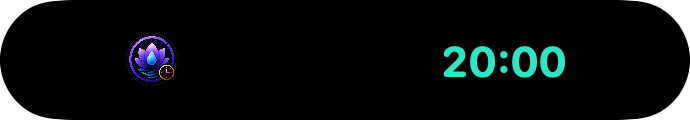
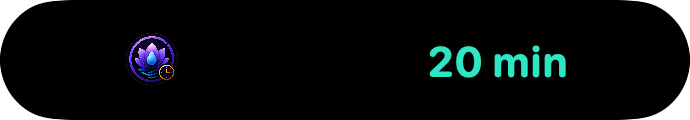
Polish Commander web visual consistency

Changed region(s): [[0.6087, 0.375, 0.8217, 0.65]]

diff --git a/docs/bohanes-technologies/web/site/index.html b/docs/bohanes-technologies/web/site/index.html
@@ -2263,6 +2263,9 @@ footer .footer-brand-message{
 }
 
 /* Minimal Commander platform split + HQ/contact placeholders, 2026-11-11. */
+.header-login,header .desktop-contact{height:46px!important;min-height:46px!important;padding:0 13px!important;border-radius:12px!important;font-size:14px!important;line-height:1!important;font-weight:700!important;white-space:nowrap!important}
+header .desktop-contact{display:inline-flex!important;align-items:center!important;justify-content:center!important}
+
 @media(min-width:1280px){header .wrap.nav{grid-template-columns:126px minmax(0,1fr) auto auto!important;column-gap:14px!important}}
 @media(min-width:1100px) and (max-width:1279px){header .wrap.nav{grid-template-columns:108px minmax(0,1fr) auto auto!important;column-gap:10px!important}}
 .product-nav-menu{position:relative;flex:0 0 auto}
@@ -2286,6 +2289,84 @@ footer .footer-brand-message{
 @media(max-width:1339px){.product-nav-menu{display:block}.product-nav-menu summary{font-size:18px;padding:12px}.product-platform-menu{position:static;transform:none;width:100%;box-shadow:none;border:0;border-top:1px solid var(--line);border-radius:0;padding:6px 12px 10px;background:#F7FAFC}.mobile-login-link{display:block;width:100%;padding:12px;border:0;border-radius:8px;background:#F3F7FA;color:var(--navy);font-size:18px;font-weight:700;text-align:left}.header-login{display:none}}
 @media(max-width:760px){.platform-dialog,.login-dialog{width:calc(100vw - 32px);max-width:calc(100vw - 32px);margin:auto;overflow:hidden}.dialog-head{padding:16px;gap:10px}.dialog-head>div{min-width:0}.dialog-head h3{font-size:24px;line-height:1.15}.dialog-close{flex:0 0 auto;padding:7px 9px}.mobile-bottom-nav{grid-template-columns:repeat(4,minmax(0,1fr))}.mobile-bottom-nav .mobile-bottom-button{min-width:0;width:auto;max-width:none;color:#EAF4FA;font-size:9px;font-weight:700;line-height:1;text-align:center;border-radius:11px;margin:5px 0;overflow:hidden}.commander-platform-switch{margin-top:10px}.social-placeholders{display:grid;grid-template-columns:1fr 1fr}.social-placeholder{min-width:0}.alarm-time-card{min-height:340px}.platform-dialog-grid{grid-template-columns:1fr}}
 @media(max-width:420px){.social-placeholders{grid-template-columns:1fr}}
+
+/* Commander-native visual language: same dark surfaces as the actual app. */
+#commander .screens-content-panel{
+  background:linear-gradient(145deg,#173866 0%,#10264D 58%,#0E1838 100%)!important;
+  border-color:#3E6594!important;
+}
+#commander .screens-content-panel .group-panel-title h3,
+#commander .screens-content-panel .procedures-heading h3{color:#F4F7FF!important}
+#commander .screens-content-panel .procedures-heading p{color:#C7D6EE!important}
+#commander .screens-content-panel .screen-card{
+  background:linear-gradient(155deg,#162D57 0%,#101E40 100%)!important;
+  border-color:#365C8A!important;
+  box-shadow:inset 0 1px 0 #FFFFFF0A,0 8px 24px #06102622!important;
+}
+#commander .screens-content-panel .screen-card h3{color:#FFFFFF!important}
+#commander .screens-content-panel .screen-card p{color:#C9D8ED!important}
+#commander .screens-content-panel .screen-visual{padding:8px;border-radius:15px;background:#0B1430;border:1px solid #294D7C}
+#commander .screens-content-panel .procedures-block{
+  background:linear-gradient(155deg,#132A54,#0D1D3E)!important;
+  border-color:#365C8A!important;
+}
+#commander .procedure-group-panel{background:#0A1733CC!important;border-color:#355F90!important}
+#commander .procedure-group-panel .proc{
+  background:linear-gradient(145deg,#142D58,#0E2043)!important;
+  border-color:#365E8D!important;
+  box-shadow:inset 0 1px 0 #FFFFFF08;
+}
+
+/* How it works uses the same Commander surface family instead of generic blue tiles. */
+.features-area .how-tile{background:linear-gradient(145deg,#E8EEF8,#DDE7F4)!important}
+.how-tile .flow-step,
+.how-tile .flow-step:nth-child(n){
+  background:linear-gradient(155deg,#152F5B 0%,#101F43 100%)!important;
+  border-color:#3A6494!important;
+  box-shadow:inset 0 1px 0 #FFFFFF0A,0 8px 22px #06102622!important;
+}
+.how-tile .flow-emblem{background:#0C1A39!important;border-color:#3D6B9E!important}
+.how-tile .flow-step h3{color:#FFFFFF!important}
+.how-tile .flow-step p{color:#CBD9EE!important}
+.how-tile .flow-step:not(:last-child):after{color:#46D8F4!important}
+
+/* Future cards: treat every preview as a Commander surface, not a loose image. */
+.future-card{background:linear-gradient(155deg,#142D58 0%,#0E1E40 100%)!important;border-color:#376393!important}
+.future-card .future-visual{min-height:300px;padding:22px;border:1px solid #2E5686;border-radius:18px;background:#08142F;margin-bottom:20px}
+.future-card .future-visual>.image-button,
+.future-card .future-widget-pair{filter:drop-shadow(0 10px 22px #02071466)}
+.future-card .status{background:#223A6B!important}
+.future-card .status.ready{background:#183F4A!important}
+
+/* Hero calendar hierarchy: 2 primary calendars + compact export row below. */
+.hero-calendars{grid-template-columns:1fr 1fr!important}
+.hero-calendar.google-calendar .hero-calendar-icon,.hero-calendar-icon.google-calendar{background:#fff;border:1px solid #D7E1EA;border-radius:10px;padding:4px}
+.hero-calendar-ics{grid-column:1/-1!important;min-height:68px!important;grid-template-columns:36px 1fr!important;grid-template-rows:auto auto!important;padding:10px 14px!important}
+.hero-calendar-ics .hero-calendar-icon{grid-row:1/3}
+.calendar-ics-strip{display:flex;align-items:center;gap:16px;margin-top:20px;padding:18px 20px;border:1px solid #5879A3;border-radius:16px;background:#0E153080;color:#fff}
+.calendar-ics-strip .calendar-ics-icon{display:grid;place-items:center;flex:0 0 44px;width:44px;height:44px;border-radius:12px;background:#1E447E;border:1px solid #5D78A7}
+.calendar-ics-strip .native-symbol{width:32px;height:32px}
+.calendar-ics-strip b{display:block;font-size:19px;line-height:1.3}
+.calendar-ics-strip span{display:block;color:#D5E1F5;font-size:16px;line-height:1.45;margin-top:3px}
+
+/* Social channels align exactly with the e-mail and phone cards. */
+.social-placeholders{display:grid!important;grid-template-columns:1fr!important;gap:12px!important;margin-top:16px!important;width:100%!important}
+.social-placeholder{width:100%!important;min-width:0!important;min-height:82px!important;grid-template-columns:36px 1fr auto!important;grid-template-rows:auto auto!important;column-gap:13px!important;padding:15px 18px!important;border:1px solid #CAD8E2!important;border-radius:16px!important;background:#F3F7FA!important}
+.social-placeholder svg{grid-row:1/3!important;width:30px!important;height:30px!important}
+.social-placeholder span{font-size:17px!important}
+.social-placeholder small{font-size:13px!important;grid-column:3;grid-row:1/3;align-self:center;padding-left:8px}
+
+/* A little more text balance in About without changing its copy. */
+#o-nas .about-copy{padding-right:12px}
+
+@media(max-width:760px){
+  .hero-calendar-ics{min-height:82px!important;display:grid!important;grid-template-columns:36px 1fr!important;grid-template-rows:auto auto!important}
+  .hero-calendar-ics .hero-calendar-icon{grid-row:1/3!important}
+  .calendar-ics-strip{align-items:flex-start;padding:16px}
+  .social-placeholder{grid-template-columns:32px 1fr!important;min-height:76px!important}
+  .social-placeholder small{grid-column:2!important;grid-row:2!important;padding-left:0!important}
+  .future-card .future-visual{min-height:245px;padding:16px}
+}
 </style></head>
 <body>
 <a class="skip-link" href="#main">Přeskočit na obsah</a>
@@ -2310,9 +2391,13 @@ footer .footer-brand-message{
 </nav>
 
 <main id="main">
-<section class="hero" id="domu"><div class="wrap hero-grid"><div class="hero-copy"><img class="product-wordmark" src="/native-ui/commander-wordmark.png" alt="Lázeňský Commander – původní logo a logotyp"><h1>Lázeňský pobyt přehledně v telefonu.</h1><p class="lead">Víte, co vás čeká, kam máte jít a kdy vyrazit. Commander promění léčebný rozpis v přehledný program vašeho pobytu.</p><div class="hero-actions"><a class="cta" href="#commander">Prohlédnout aplikaci</a><a class="cta secondary" href="#pro-lazne">Domluvit pilot</a></div><div class="platforms"><a class="platform" href="#commander"><span class="platform-icon"><svg viewBox="0 0 24 28" aria-hidden="true"><path d="M19.7 14.5c0-3 2.5-4.4 2.6-4.5-1.4-2.1-3.6-2.4-4.4-2.4-1.9-.2-3.7 1.1-4.7 1.1-1 0-2.5-1.1-4.1-1.1-2.1 0-4.1 1.3-5.2 3.2-2.2 3.9-.6 9.6 1.6 12.7 1.1 1.5 2.3 3.1 3.9 3 1.6-.1 2.2-1 4.1-1s2.4 1 4.1 1c1.7 0 2.8-1.5 3.8-3 1.3-1.8 1.8-3.6 1.8-3.7-.1 0-3.5-1.4-3.5-5.3zM16.6 5.5c.9-1.1 1.5-2.7 1.3-4.2-1.3.1-2.9.9-3.9 2-.8.9-1.6 2.5-1.4 4 1.5.1 3-.8 4-1.8z"/></svg></span><span><b>iPhone</b><small>iOS 16.1+</small></span></a><button class="platform platform-button" type="button" data-platform-open><span class="android-mark"><svg viewBox="0 0 36 28" aria-hidden="true"><path d="M8 7 4 1M28 7l4-6" stroke="#23864A" stroke-width="2" stroke-linecap="round"/><path d="M1 26a17 20 0 0 1 34 0Z" fill="#3DDC84"/><circle cx="10" cy="17" r="1.8" fill="#183B2A"/><circle cx="26" cy="17" r="1.8" fill="#183B2A"/></svg></span><span><b>Android</b><small>Připravujeme</small></span></button></div><div class="hero-calendars" aria-label="Kalendářová propojení"><a class="hero-calendar" href="#kalendar"><span class="hero-calendar-icon apple-calendar"><img src="/native-ui/symbol-calendar.png" alt=""></span><b>Apple Kalendář</b><small>Volitelná synchronizace</small></a><a class="hero-calendar" href="#kalendar"><span class="hero-calendar-icon"><img src="/native-ui/symbol-document.png" alt=""></span><b>Export .ics</b><small>Dostupný v Pokročilé</small></a></div></div><div class="hero-stage"><div class="hero-phone-wrap"><button class="image-button hero-phone-button" type="button" data-enlarge aria-label="Zvětšit: Skutečná obrazovka Dnes v Commanderu"><img src="/screens/commander-today.png" alt="Skutečná obrazovka Dnes v Commanderu"></button></div><div class="hero-side"><div class="hero-widget"><div class="visual-label">Commander na ploše iPhonu</div><button class="image-button hero-widget-button" type="button" data-enlarge aria-label="Zvětšit: Podlouhlý widget Commanderu – čistý nativní náhled"><img src="/native-ui/widget-medium.png" alt="Podlouhlý widget Commanderu – čistý nativní náhled"></button></div><div class="hero-procedure-pack" aria-label="Pět kategorií procedur"><div class="hero-proc"><img src="/procedure-icons/rehab.png" alt=""><span>Rehabilitace a pohyb</span></div><div class="hero-proc"><img src="/procedure-icons/electro.png" alt=""><span>Elektroléčba</span></div><div class="hero-proc"><img src="/procedure-icons/bath.png" alt=""><span>Vodoléčba</span></div><div class="hero-proc"><img src="/procedure-icons/massage.png" alt=""><span>Masáže</span></div><div class="hero-proc"><img src="/procedure-icons/wrap.png" alt=""><span>Teplo a zábaly</span></div></div></div></div></div></section>
+<section class="hero" id="domu"><div class="wrap hero-grid"><div class="hero-copy"><img class="product-wordmark" src="/native-ui/commander-wordmark.png" alt="Lázeňský Commander – původní logo a logotyp"><h1>Lázeňský pobyt přehledně v telefonu.</h1><p class="lead">Víte, co vás čeká, kam máte jít a kdy vyrazit. Commander promění léčebný rozpis v přehledný program vašeho pobytu.</p><div class="hero-actions"><a class="cta" href="#commander">Prohlédnout aplikaci</a><a class="cta secondary" href="#pro-lazne">Domluvit pilot</a></div><div class="platforms"><a class="platform" href="#commander"><span class="platform-icon"><svg viewBox="0 0 24 28" aria-hidden="true"><path d="M19.7 14.5c0-3 2.5-4.4 2.6-4.5-1.4-2.1-3.6-2.4-4.4-2.4-1.9-.2-3.7 1.1-4.7 1.1-1 0-2.5-1.1-4.1-1.1-2.1 0-4.1 1.3-5.2 3.2-2.2 3.9-.6 9.6 1.6 12.7 1.1 1.5 2.3 3.1 3.9 3 1.6-.1 2.2-1 4.1-1s2.4 1 4.1 1c1.7 0 2.8-1.5 3.8-3 1.3-1.8 1.8-3.6 1.8-3.7-.1 0-3.5-1.4-3.5-5.3zM16.6 5.5c.9-1.1 1.5-2.7 1.3-4.2-1.3.1-2.9.9-3.9 2-.8.9-1.6 2.5-1.4 4 1.5.1 3-.8 4-1.8z"/></svg></span><span><b>iPhone</b><small>iOS 16.1+</small></span></a><button class="platform platform-button" type="button" data-platform-open><span class="android-mark"><svg viewBox="0 0 36 28" aria-hidden="true"><path d="M8 7 4 1M28 7l4-6" stroke="#23864A" stroke-width="2" stroke-linecap="round"/><path d="M1 26a17 20 0 0 1 34 0Z" fill="#3DDC84"/><circle cx="10" cy="17" r="1.8" fill="#183B2A"/><circle cx="26" cy="17" r="1.8" fill="#183B2A"/></svg></span><span><b>Android</b><small>Připravujeme</small></span></button></div><div class="hero-calendars" aria-label="Kalendářová propojení">
+<a class="hero-calendar" href="#kalendar"><span class="hero-calendar-icon apple-calendar"><img src="/native-ui/symbol-calendar.png" alt=""></span><b>Apple Kalendář</b><small>Volitelná synchronizace</small></a>
+<a class="hero-calendar" href="#kalendar"><span class="hero-calendar-icon google-calendar"><img src="/native-ui/google-calendar.png" alt=""></span><b>Google Kalendář</b><small>Import přes .ics</small></a>
+<a class="hero-calendar hero-calendar-ics" href="#kalendar"><span class="hero-calendar-icon"><img src="/native-ui/symbol-document.png" alt=""></span><b>Export .ics</b><small>Pro Google i další kalendáře</small></a>
+</div></div><div class="hero-stage"><div class="hero-phone-wrap"><button class="image-button hero-phone-button" type="button" data-enlarge aria-label="Zvětšit: Skutečná obrazovka Dnes v Commanderu"><img src="/screens/commander-today.png" alt="Skutečná obrazovka Dnes v Commanderu"></button></div><div class="hero-side"><div class="hero-widget"><div class="visual-label">Commander na ploše iPhonu</div><button class="image-button hero-widget-button" type="button" data-enlarge aria-label="Zvětšit: Podlouhlý widget Commanderu – čistý nativní náhled"><img src="/native-ui/widget-medium.png" alt="Podlouhlý widget Commanderu – čistý nativní náhled"></button></div><div class="hero-procedure-pack" aria-label="Pět kategorií procedur"><div class="hero-proc"><img src="/procedure-icons/rehab.png" alt=""><span>Rehabilitace a pohyb</span></div><div class="hero-proc"><img src="/procedure-icons/electro.png" alt=""><span>Elektroléčba</span></div><div class="hero-proc"><img src="/procedure-icons/bath.png" alt=""><span>Vodoléčba</span></div><div class="hero-proc"><img src="/procedure-icons/massage.png" alt=""><span>Masáže</span></div><div class="hero-proc"><img src="/procedure-icons/wrap.png" alt=""><span>Teplo a zábaly</span></div></div></div></div></div></section>
 
-<section id="o-nas"><div class="wrap section-tile about-tile"><div class="pad"><div class="about-grid"><div class="about-copy"><div class="kicker">O nás</div><h2>Proč vznikl Lázeňský Commander?</h2><p class="lead">Léčebný průkaz obsahuje všechno. Jen v něm musíte pokaždé znovu hledat.</p><p>Časy, názvy procedur, patra a místnosti. Během pobytu potřebujete hlavně vědět, co je právě teď, co přijde potom a kdy už máte vyrazit.</p><p>Commander vznikl ze skutečné zkušenosti z lázní. Papírovému rozpisu dává přehlednou podobu v telefonu a pomáhá hlídat čas odchodu.</p></div><div class="story-visual"><div class="story-brand"><img class="product-mark" src="/native-ui/commander-mark.png" alt="Logo Lázeňského Commanderu"><div><b>Lázeňský Commander</b><span>Z rozpisu do přehledného dne.</span></div></div><div class="story-document"><div class="story-document-title"><img class="native-symbol" src="/native-ui/symbol-document.png" alt=""><span>Léčebný rozpis</span></div><div class="story-line"><time>09:15</time><span>LTV<br><small>Tělocvična</small></span></div><div class="story-line"><time>10:15</time><span>Ultrazvuk<br><small>Elektroléčba</small></span></div></div><div class="story-arrow" aria-hidden="true">↓</div><div class="story-answer"><img src="/procedure-icons/rehab.png" alt=""><div><span class="eyebrow">Co je teď · co bude dál</span><b>Čas, procedura a místo</b><span>V jednom denním přehledu.</span></div><img class="native-symbol" src="/native-ui/symbol-clock.png" alt=""></div><p class="visual-note">Stejný demonstrační rozpis používají i ostatní ukázky na stránce.</p></div></div></div></div></section>
+<section id="o-nas"><div class="wrap section-tile about-tile"><div class="pad"><div class="about-grid"><div class="about-copy"><div class="kicker">O nás</div><h2>Proč vznikl Lázeňský Commander?</h2><p class="lead">Léčebný průkaz obsahuje všechno. Jen v něm musíte pokaždé znovu hledat.</p><p>Lázeňský Commander vznikl z jednoduché potřeby: podívat se na telefon a hned vědět, co mě čeká, kde to je a kdy mám vyrazit.</p><p>Časy, názvy procedur, patra a místnosti. Během pobytu potřebujete hlavně vědět, co je právě teď, co přijde potom a kdy už máte vyrazit.</p><p>Commander vznikl ze skutečné zkušenosti z lázní. Papírovému rozpisu dává přehlednou podobu v telefonu a pomáhá hlídat čas odchodu.</p></div><div class="story-visual"><div class="story-brand"><img class="product-mark" src="/native-ui/commander-mark.png" alt="Logo Lázeňského Commanderu"><div><b>Lázeňský Commander</b><span>Z rozpisu do přehledného dne.</span></div></div><div class="story-document"><div class="story-document-title"><img class="native-symbol" src="/native-ui/symbol-document.png" alt=""><span>Léčebný rozpis</span></div><div class="story-line"><time>09:15</time><span>LTV<br><small>Tělocvična</small></span></div><div class="story-line"><time>10:15</time><span>Ultrazvuk<br><small>Elektroléčba</small></span></div></div><div class="story-arrow" aria-hidden="true">↓</div><div class="story-answer"><img src="/procedure-icons/rehab.png" alt=""><div><span class="eyebrow">Co je teď · co bude dál</span><b>Čas, procedura a místo</b><span>V jednom denním přehledu.</span></div><img class="native-symbol" src="/native-ui/symbol-clock.png" alt=""></div><p class="visual-note">Ukázka údajů z demonstračního rozpisu Commanderu.</p></div></div></div></div></section>
 
 <section id="commander"><div class="wrap section-tile screens-tile"><div class="pad"><div class="section-heading"><div><div class="kicker">Lázeňský Commander</div><div class="commander-platform-switch"><a class="is-active" href="#commander">Apple</a><button type="button" data-platform-open>Android</button></div><h2>Užitečné obrazovky.</h2></div><p class="lead">Denní program, celý týden i nastavení předstihu. Skutečné obrazovky aplikace si můžete otevřít v čitelném detailu.</p></div><div class="subsection-panel screens-content-panel"><div class="group-panel-title"><h3>Přehled obrazovek</h3></div><div class="screen-grid"><article class="screen-card"><div class="screen-visual"><button class="image-button" type="button" data-enlarge aria-label="Zvětšit obrazovku"><img src="/screens/commander-today.png" alt="Dnes"></button></div><h3>Dnes</h3><p>Co vás čeká právě dnes, nejbližší procedura a kdy máte vyrazit.</p></article><article class="screen-card"><div class="screen-visual"><button class="image-button" type="button" data-enlarge aria-label="Zvětšit obrazovku"><img src="/screens/commander-week.png" alt="Týden"></button></div><h3>Týden</h3><p>Celý týdenní rozpis po jednotlivých dnech a počet procedur.</p></article><article class="screen-card"><div class="screen-visual"><button class="image-button" type="button" data-enlarge aria-label="Zvětšit obrazovku"><img src="/screens/commander-stay.png" alt="Pobyt"></button></div><h3>Pobyt</h3><p>Souhrn pobytu, průběh, počet procedur a přehled terapií.</p></article><article class="screen-card"><div class="screen-visual"><button class="image-button" type="button" data-enlarge aria-label="Zvětšit obrazovku"><img src="/screens/commander-info.png" alt="Info"></button></div><h3>Info</h3><p>Důležité údaje o pobytu, lázních a klientovi na jednom místě.</p></article><article class="screen-card"><div class="screen-visual"><button class="image-button" type="button" data-enlarge aria-label="Zvětšit obrazovku"><img src="/screens/commander-settings.png" alt="Nastavení"></button></div><h3>Nastavení</h3><p>Předstihy odchodu, kontrola rozpisu a další volby aplikace.</p></article></div><div class="procedures-block"><div class="procedures-heading"><h3>Procedury</h3><p>Stejné barvy a symboly vás provázejí celým Commanderem.</p></div><div class="procedure-group-panel"><div class="procedure-badges"><div class="proc"><img src="/procedure-icons/rehab.png" alt=""><b>Rehabilitace a pohyb</b></div><div class="proc"><img src="/procedure-icons/electro.png" alt=""><b>Elektroléčba</b></div><div class="proc"><img src="/procedure-icons/bath.png" alt=""><b>Vodoléčba</b></div><div class="proc"><img src="/procedure-icons/massage.png" alt=""><b>Masáže</b></div><div class="proc"><img src="/procedure-icons/wrap.png" alt=""><b>Teplo a zábaly</b></div></div></div></div></div></div></div></section>
 
@@ -2321,7 +2406,7 @@ footer .footer-brand-message{
 
 <section id="alarmy"><div class="wrap section-tile alarm-tile"><div class="pad"><div class="section-heading"><div><div class="kicker">Alarmy a upozornění</div><h2>Commander hlídá čas odchodu.</h2></div><p class="lead">Commander určí čas. Systémový alarm iPhonu upozorní, že už máte vyrazit.</p></div><div class="subsection-panel alarm-content-panel"><div class="group-panel-title"><h3>Od nastavení předstihu k alarmu</h3></div><div class="alarm-sequence"><article class="alarm-block"><h3><span class="alarm-symbol"><img src="/native-ui/symbol-clock.png" alt=""></span>Nastavení předstihu</h3><div class="alarm-visual-slot"><button class="image-button" type="button" data-enlarge aria-label="Zvětšit: Skutečné nastavení předstihu v aplikaci Commander"><img src="/screens/commander-settings.png" alt="Skutečné nastavení předstihu v aplikaci Commander"></button></div><div class="alarm-caption"><b>Čas, který potřebujete na cestu</b><p>Nastavíte předstih odchodu. Commander jej hlídá pro konkrétní proceduru nebo jídlo.</p></div></article><article class="alarm-block"><h3><span class="alarm-symbol"><img src="/native-ui/symbol-bell.png" alt=""></span>Systém iOS / alarm</h3><div class="alarm-visual-slot"><div class="alarm-time-card"><span class="alarm-time-label">Čas vyrazit</span><strong>08:55</strong><span class="alarm-time-event">LTV · začátek 09:15</span><span class="alarm-time-lead">Předstih 20 min</span></div></div><div class="alarm-caption"><b>AlarmKit upozorní v čase odchodu</b><p><strong>AlarmKit vyžaduje iOS 26.1 nebo novější.</strong> Nový systémový snímek doplníme až z ověřeného denního fyzického testu. Starý večerní snímek sem nepatří.</p></div></article><article class="alarm-block"><h3><span class="alarm-symbol is-brand"><img src="/native-ui/commander-mark.png" alt="Logo Commanderu"></span>Commander</h3><div class="alarm-visual-slot"><button class="image-button" type="button" data-enlarge aria-label="Zvětšit: Běžný přehled otevřeného Commanderu, nikoliv vyzvánějící alarm"><img src="/screens/commander-today.png" alt="Běžný přehled otevřeného Commanderu, nikoliv vyzvánějící alarm"></button></div><div class="alarm-caption"><b>Program v otevřené aplikaci</b><p>Skutečný denní přehled a časový kontext procedury. Nejde o obrazovku vyzvánění.</p></div></article></div><div class="alarm-explanation"><b>Systémový alarm a otevřená aplikace</b><p>Vyzvánění zajišťuje iOS. Commander zobrazuje denní program a jeho časový kontext.</p><p class="section-note">Časová logika je sjednocená s demonstračním rozpisem: LTV 09:15, odchod 08:55, předstih 20 minut.</p></div></div></div></div></section>
 
-<section id="kalendar"><div class="wrap section-tile native-tile calendar-tile"><div class="pad"><div class="section-heading"><div><div class="kicker">Kalendář a widgety</div><h2>Program i mimo aplikaci.</h2></div><p class="lead">Podlouhlý widget, přehled dne i nejbližší procedura. Stejný Commander přímo na ploše iPhonu.</p></div><div class="subsection-panel calendar-content-panel"><div class="group-panel-title"><h3>Widgety a kalendáře</h3><p>Widget ukazuje proceduru, místo a časový kontext. Malý přehled doplňuje počet zbývajících procedur a konec programu.</p></div><div class="widget-showcase widget-summary-panel"><div class="widget-copy"><h3>Teď, potom a zbytek dne.</h3></div><div class="widget-collection"><button class="image-button widget-medium" type="button" data-enlarge aria-label="Zvětšit: Nativní podlouhlý widget Commanderu"><img src="/native-ui/widget-medium.png" alt="Nativní podlouhlý widget Commanderu"></button><div class="small-widgets"><button class="image-button " type="button" data-enlarge aria-label="Zvětšit: Nativní malý widget nejbližší procedury"><img src="/native-ui/widget-small.png" alt="Nativní malý widget nejbližší procedury"></button><button class="image-button " type="button" data-enlarge aria-label="Zvětšit: Nativní malý widget přehledu dne"><img src="/native-ui/widget-day.png" alt="Nativní malý widget přehledu dne"></button></div></div></div><div class="calendar-platforms"><article class="calendar-platform"><div class="calendar-platform-head"><div class="calendar-app-symbol apple-calendar-symbol"><img class="native-symbol" src="/native-ui/symbol-calendar.png" alt=""></div><div><h3>Apple Kalendář</h3><span class="status ready">Synchronizace implementována</span></div><button class="calendar-zoom" type="button" data-enlarge-calendar aria-label="Zvětšit náhled Apple Kalendáře"></button></div><div class="calendar-preview apple-preview" role="button" tabindex="0" aria-label="Zvětšit náhled Apple Kalendáře"><div class="calendar-days"><span>Po</span><span>Út</span><span>St</span><span>Čt</span><span>Pá</span></div><div class="calendar-events"><div class="calendar-event rehab"><time>09:15</time><span>LTV</span></div><div class="calendar-event electro"><time>10:15</time><span>Ultrazvuk</span></div></div></div><p>Volitelná synchronizace zapíše rozpis pobytu do Apple Kalendáře. Oprávnění se vyžádá až po zapnutí v Nastavení.</p><span class="visual-note">Implementováno v nativním iPhone projektu přes EventKit.</span></article><article class="calendar-platform"><div class="calendar-platform-head"><div class="calendar-app-symbol apple-calendar-symbol"><img class="native-symbol" src="/native-ui/symbol-document.png" alt=""></div><div><h3>Export .ics</h3><span class="status ready">Implementováno</span></div><button class="calendar-zoom" type="button" data-enlarge-calendar aria-label="Zvětšit náhled exportu kalendáře"></button></div><div class="calendar-preview apple-preview" role="button" tabindex="0" aria-label="Zvětšit náhled exportu kalendáře"><div class="calendar-days"><span>Po</span><span>Út</span><span>St</span><span>Čt</span><span>Pá</span></div><div class="calendar-events"><div class="calendar-event rehab"><time>09:15</time><span>LTV</span></div><div class="calendar-event meal"><time>12:00</time><span>Oběd</span></div></div></div><p>Soubor .ics lze z Commanderu vyexportovat a otevřít v podporovaném kalendáři.</p><span class="visual-note">Export zůstává dostupný v části Pokročilé.</span></article></div></div></div></div></section>
+<section id="kalendar"><div class="wrap section-tile native-tile calendar-tile"><div class="pad"><div class="section-heading"><div><div class="kicker">Kalendář a widgety</div><h2>Program i mimo aplikaci.</h2></div><p class="lead">Podlouhlý widget, přehled dne i nejbližší procedura. Stejný Commander přímo na ploše iPhonu.</p></div><div class="subsection-panel calendar-content-panel"><div class="group-panel-title"><h3>Widgety a kalendáře</h3><p>Widget ukazuje proceduru, místo a časový kontext. Malý přehled doplňuje počet zbývajících procedur a konec programu.</p></div><div class="widget-showcase widget-summary-panel"><div class="widget-copy"><h3>Teď, potom a zbytek dne.</h3></div><div class="widget-collection"><button class="image-button widget-medium" type="button" data-enlarge aria-label="Zvětšit: Nativní podlouhlý widget Commanderu"><img src="/native-ui/widget-medium.png" alt="Nativní podlouhlý widget Commanderu"></button><div class="small-widgets"><button class="image-button " type="button" data-enlarge aria-label="Zvětšit: Nativní malý widget nejbližší procedury"><img src="/native-ui/widget-small.png" alt="Nativní malý widget nejbližší procedury"></button><button class="image-button " type="button" data-enlarge aria-label="Zvětšit: Nativní malý widget přehledu dne"><img src="/native-ui/widget-day.png" alt="Nativní malý widget přehledu dne"></button></div></div></div><div class="calendar-platforms"><article class="calendar-platform"><div class="calendar-platform-head"><div class="calendar-app-symbol apple-calendar-symbol"><img class="native-symbol" src="/native-ui/symbol-calendar.png" alt=""></div><div><h3>Apple Kalendář</h3><span class="status ready">Synchronizace implementována</span></div><button class="calendar-zoom" type="button" data-enlarge-calendar aria-label="Zvětšit náhled Apple Kalendáře"></button></div><div class="calendar-preview apple-preview" role="button" tabindex="0" aria-label="Zvětšit náhled Apple Kalendáře"><div class="calendar-days"><span>Po</span><span>Út</span><span>St</span><span>Čt</span><span>Pá</span></div><div class="calendar-events"><div class="calendar-event rehab"><time>09:15</time><span>LTV</span></div><div class="calendar-event electro"><time>10:15</time><span>Ultrazvuk</span></div></div></div><p>Volitelná synchronizace zapíše rozpis pobytu do Apple Kalendáře. Oprávnění se vyžádá až po zapnutí v Nastavení.</p><span class="visual-note">Implementováno v nativním iPhone projektu přes EventKit.</span></article><article class="calendar-platform"><div class="calendar-platform-head"><img class="calendar-app-symbol" src="/native-ui/google-calendar.png" alt="Google Kalendář"><div><h3>Google Kalendář</h3><span class="status ready">Přes export .ics</span></div><button class="calendar-zoom" type="button" data-enlarge-calendar aria-label="Zvětšit náhled Google Kalendáře"></button></div><div class="calendar-preview google-preview" role="button" tabindex="0" aria-label="Zvětšit náhled Google Kalendáře"><div class="calendar-days"><span>Po</span><span>Út</span><span>St</span><span>Čt</span><span>Pá</span></div><div class="calendar-events"><div class="calendar-event rehab"><time>09:15</time><span>LTV</span></div><div class="calendar-event electro"><time>10:15</time><span>Ultrazvuk</span></div></div></div><p>Commander připraví soubor .ics, který lze otevřít nebo importovat do Google Kalendáře.</p><span class="visual-note">Nejde o přímou synchronizaci s Google účtem.</span></article></div><div class="calendar-ics-strip"><span class="calendar-ics-icon"><img class="native-symbol" src="/native-ui/symbol-document.png" alt=""></span><div><b>Export .ics</b><span>Jedním souborem přenesete rozpis do Google Kalendáře nebo jiného kompatibilního kalendáře. Export je dostupný v části Pokročilé.</span></div></div></div></div></div></section>
 
 </section>
 

diff --git a/docs/bohanes-technologies/web/native-preview-export.py b/docs/bohanes-technologies/web/native-preview-export.py
@@ -37,12 +37,13 @@ acts=re.sub(r'    let (display|preview) = CommanderProcedureDisplay.resolve\(\n.
 acts=acts.replace('CommanderSystemCountdown(target: target)', 'Text(commanderWebDemoCountdown(target))')
 acts='''private let commanderWebDemoNow = Date(timeIntervalSince1970: 1790148300)
 private func commanderWebDemoCountdown(_ target: Date) -> String {
-  let seconds = max(0, Int(target.timeIntervalSince(commanderWebDemoNow).rounded()))
-  return String(format: "%d:%02d", seconds / 60, seconds % 60)
+  let minutes = max(0, Int(ceil(target.timeIntervalSince(commanderWebDemoNow) / 60)))
+  return "\(minutes) min"
 }
 ''' + acts
 watch=(native/'LazenskyCommanderWatchApp/WatchCommanderView.swift').read_text()
 watch=block(watch,'private struct WatchCommanderStateView').replace('ScrollView(.vertical) {','VStack(spacing: 0) {').replace('.defaultScrollAnchor(.top)','').replace('.contentMargins(.top, 0, for: .scrollContent)','').replace('.scrollIndicators(.hidden)','')
+watch=watch.replace('timing.countdownText(at: liveState.now)', 'timing.target.map { "\\(max(0, Int(ceil($0.timeIntervalSince(liveState.now) / 60)))) min" }')
 watchassets=(native/'LazenskyCommanderWatchApp/WatchVisualAssets.swift').read_text()
 fixture='''
 struct WatchCommanderModel { let cacheError: String? = nil; let transportError: String? = nil; let notificationError: String? = nil }
